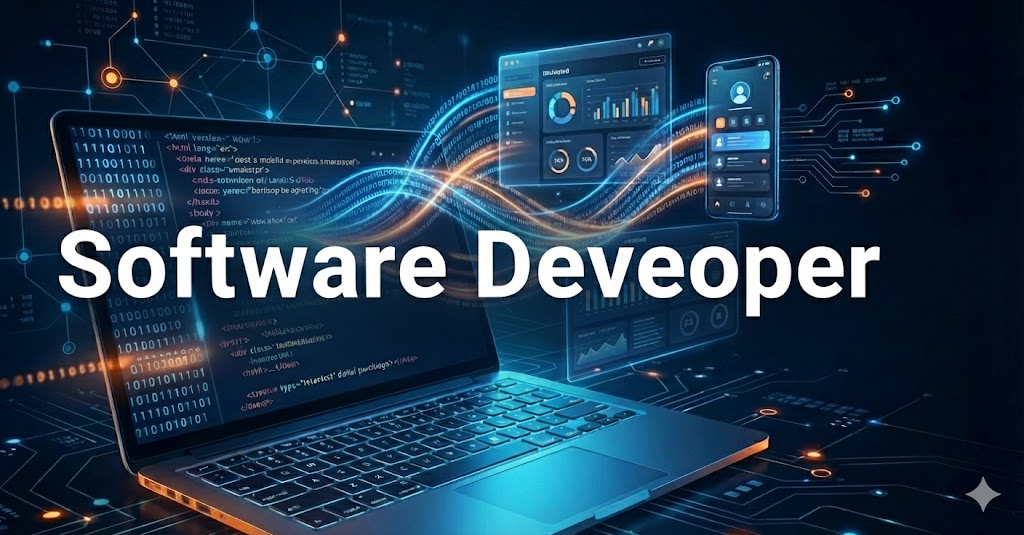
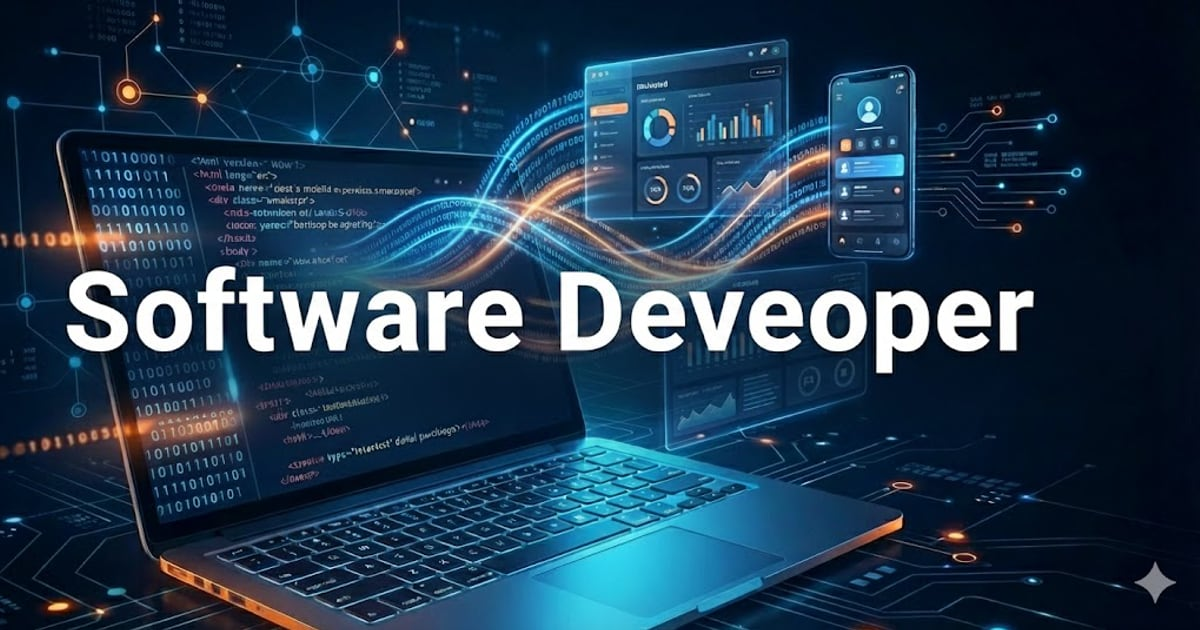
feat(og): complete Open Graph on every page
- Fix og-image to a real 1200x630 (was 1024x535 declared as 1200x630)
- Shared OG_IMAGES constant; add og:image to audit/blog/blogpost openGraph
  (App Router does not inherit parent openGraph.images — nested pages had none)
- Strengthen home og:title/description (were generic)
Each page now has og:title, og:image (+w/h/alt), og:type, og:url; posts = article.

diff --git a/src/app/layout.tsx b/src/app/layout.tsx
@@ -3,7 +3,7 @@ import Head from "next/head";
 import "./globals.scss";
 import { Footer } from "@/widgets/Footer";
 import { Header } from "@/widgets/Header";
-import { StructuredData } from "@/shared/seo";
+import { StructuredData, OG_IMAGES } from "@/shared/seo";
 import { YandexMetrika } from "@/shared/analytics";
 import { ClientBackground } from "@/shared/ui/Background/ClientBackground";
 import { Press_Start_2P } from "next/font/google";
@@ -37,19 +37,12 @@ export const metadata: Metadata = {
   robots: { index: true, follow: true },
   verification: { yandex: "c289a4102b0abbd1" },
   openGraph: {
-    title: "Алабугин Михаил | Software Developer",
-    description: "Посмотрите мое портфолио и реализованные проекты",
+    title: "Михаил Алабугин — frontend-разработчик (Next.js, React)",
+    description:
+      "Frontend-разработчик: Next.js, React, TypeScript. Быстрые и доступные сайты, аудит и ускорение. Портфолио и услуги.",
     url: "https://mmalabugin.ru",
-    siteName: "Portfolio Alabugin",
-    images: [
-      {
-        url: "/og-image.jpg",
-        width: 1200,
-        height: 630,
-        alt: "Михаил Алабугин — frontend-разработчик",
-      },
-    ],
-
+    siteName: "Михаил Алабугин",
+    images: OG_IMAGES,
     locale: "ru_RU",
     type: "website",
   },

diff --git a/src/shared/seo/og.ts b/src/shared/seo/og.ts
@@ -1,0 +1,16 @@
+import type { Metadata } from "next";
+
+// Единый og:image для всех страниц. В App Router page-level `openGraph`
+// НЕ наследует images от родителя — поэтому импортируем этот массив в каждую
+// метадату (layout/audit/blog/blogpost), иначе на вложенных страницах og:image
+// пропадает и соцпревью остаётся без картинки.
+export const OG_IMAGES: NonNullable<
+  NonNullable<Metadata["openGraph"]>["images"]
+> = [
+  {
+    url: "/og-image.jpg",
+    width: 1200,
+    height: 630,
+    alt: "Михаил Алабугин — frontend-разработчик",
+  },
+];

diff --git a/src/views/Audit/ui/AuditPage/AuditPage.tsx b/src/views/Audit/ui/AuditPage/AuditPage.tsx
@@ -1,5 +1,6 @@
 import type { Metadata } from "next";
 import { Reveal } from "@/shared/ui/Reveal";
+import { OG_IMAGES } from "@/shared/seo";
 import styles from "./AuditPage.module.scss";
 
 export const auditMetadata: Metadata = {
@@ -13,6 +14,7 @@ export const auditMetadata: Metadata = {
       "Ускорю сайт и покажу, что теряет конверсию: фикс LCP/CLS/INP, рост PageSpeed. Замеры, приоритеты, план фиксов. Фикс-цена. Кейс 50→100.",
     url: "https://mmalabugin.ru/audit",
     type: "website",
+    images: OG_IMAGES,
   },
 };
 

diff --git a/src/views/Blog/ui/BlogPage/BlogPage.tsx b/src/views/Blog/ui/BlogPage/BlogPage.tsx
@@ -1,5 +1,6 @@
 import type { Metadata } from "next";
 import { getAllPosts, PostCard } from "@/entities/post";
+import { OG_IMAGES } from "@/shared/seo";
 import styles from "./BlogPage.module.scss";
 
 export const blogMetadata: Metadata = {
@@ -13,6 +14,7 @@ export const blogMetadata: Metadata = {
       "Почему сайты тормозят и как чинить LCP, CLS, INP. Кейсы ускорения сайтов.",
     url: "https://mmalabugin.ru/blog",
     type: "website",
+    images: OG_IMAGES,
   },
 };
 

diff --git a/src/views/BlogPost/ui/BlogPostPage/BlogPostPage.tsx b/src/views/BlogPost/ui/BlogPostPage/BlogPostPage.tsx
@@ -3,6 +3,7 @@ import Link from "next/link";
 import ReactMarkdown from "react-markdown";
 import remarkGfm from "remark-gfm";
 import { getPostBySlug, type Post } from "@/entities/post";
+import { OG_IMAGES } from "@/shared/seo";
 import styles from "./BlogPostPage.module.scss";
 
 const BASE_URL = "https://mmalabugin.ru";
@@ -22,6 +23,7 @@ export const buildPostMetadata = (slug: string): Metadata => {
       url,
       type: "article",
       publishedTime: post.date,
+      images: OG_IMAGES,
     },
   };
 };

diff --git a/src/shared/seo/index.ts b/src/shared/seo/index.ts
@@ -1,1 +1,2 @@
 export { StructuredData } from "./StructuredData";
+export { OG_IMAGES } from "./og";
